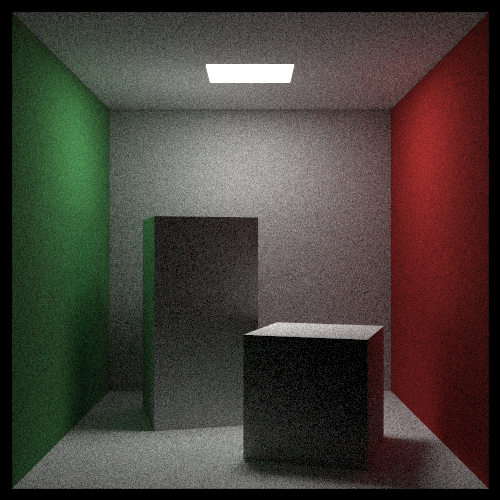
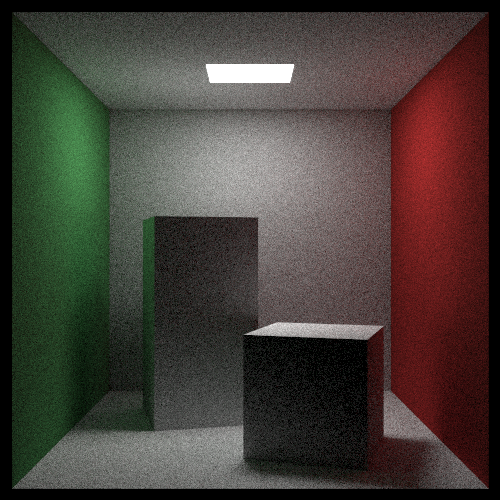
finished chapter 4

diff --git a/main.py b/main.py
@@ -82,9 +82,9 @@ if  __name__ == "__main__":
     #cProfile.runctx('main()',None,("random_spheres",(200,100),64))
     #main("./unit_tests/random_spheres_unit_test",(200,100),64)
     #main("./test",output_res = (256,128),num_samples = 1024)
-    main("./test_bug",output_res = (256,128),num_samples = 1024)
+    #main("./test_bug",output_res = (256,128),num_samples = 1024)
     #main("./test",output_res = (800,800),num_samples = 2048)
-    #main("./test",output_res = (500,500),num_samples = 256)
+    main("./test",output_res = (500,500),num_samples = 1024)
     # 00:00:43 1118.0 it/s
 
 
